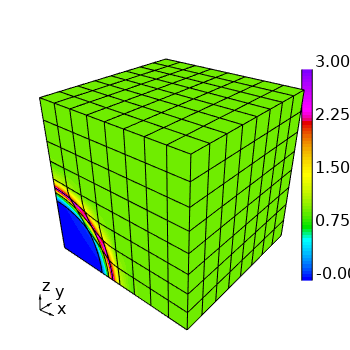
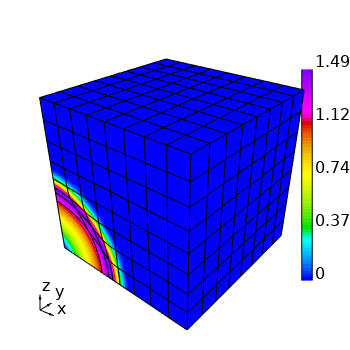
Change Sedov blast plots

diff --git a/rom/README.md b/rom/README.md
@@ -183,7 +183,7 @@ A corresponding sample run of the reduce order model is:
 ./laghos -p 1 -m data/cube01_hex.mesh -pt 211 -tf 0.1 -online -romhr -romos -rostype interpolate -sfacx 1 -sfacv 32 -sface 32 -soldiff -romgs -romsrhs -bef 1.1 -nwin 27 -twp twpTemp.csv -vis
 ```
 
-The commands produce the following density plots (notice the `-vis` option)
+The commands produce the following velocity magnitude plots (notice the `-vis` option)
 
 <table border="0">
 <td> <img src="data/sedov-fom.png">
